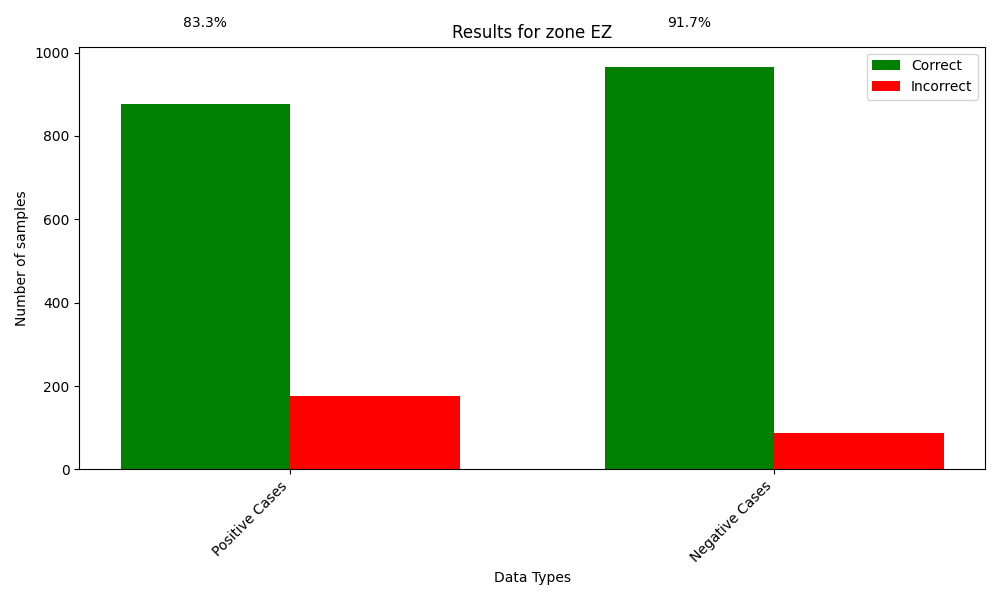
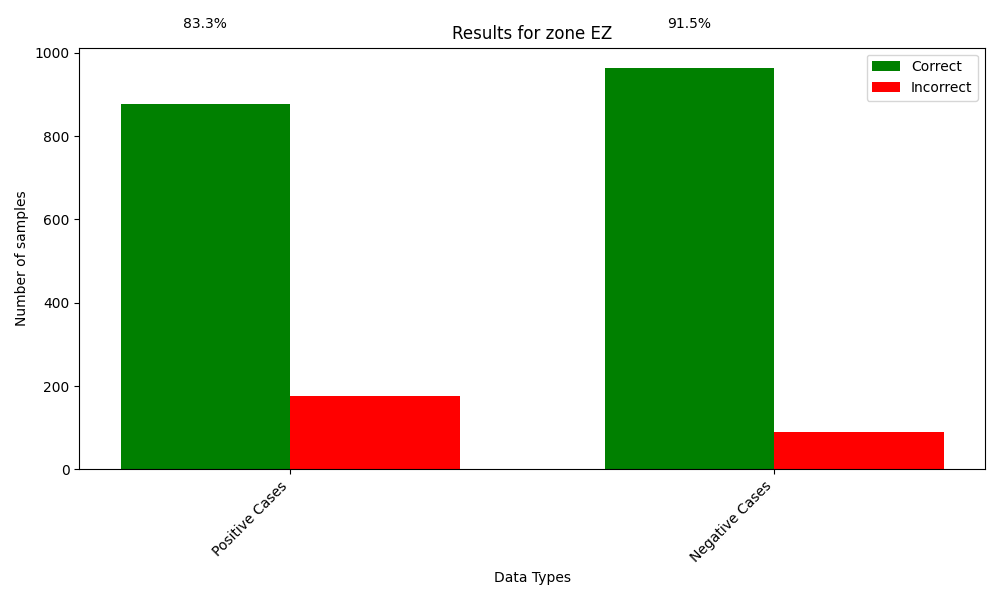
Updated API
*Added percentage and top n methods
*Updated charts results

Changed region(s): [[0.093, 0.03, 0.961, 0.18], [0.031, 0.21, 0.062, 0.24]]

diff --git a/api/GeneticZoneEvaluator.py b/api/GeneticZoneEvaluator.py
@@ -17,14 +17,17 @@ class GeneticZoneEvaluator:
                 paths = [paths]
             self.predictor[zone] = [TabularPredictor.load(path, require_py_version_match=False) for path in paths]
 
-    def _predict(self, zone, window_strings):
+    def _predict(self, zone, window_strings, method="top_n", max_predictions=10, threshold=0.5):
         """
         Predicts the labels for multiple window strings using all predictors for the specified zone.
         Instead of passing a single "sequence" column, this method transforms each window_str into
         individual columns: B1, B2, ..., B{n}, where n = len(window_str).
-        Returns a list of booleans indicating if the majority of predictors classified each window as positive.
+        Returns a list of booleans indicating if the predictions meet the criteria.
         
         :param window_strings: List of window strings to predict
+        :param method: Prediction method to use ('top_n' or 'percentage')
+        :param max_predictions: Number of top predictions to return when method is 'top_n'
+        :param threshold: Probability threshold when method is 'percentage'
         :return: List of boolean predictions
         """
         if not window_strings:
@@ -38,11 +41,18 @@ class GeneticZoneEvaluator:
         
         # Get predictions from all models
         preds = self.predictor[zone][0].predict_proba(df, as_pandas=True)
-        all_predictions = (preds["true"].rank(method="first", ascending=False) <= 10).to_list()
+        
+        if method == "top_n":
+            all_predictions = (
+                    (preds["true"].rank(method="first", ascending=False) <= max_predictions) &
+                    (preds["true"] >= threshold)
+            ).to_list()
+        else:  # percentage method
+            all_predictions = (preds["true"] >= threshold).to_list()
 
         return all_predictions
 
-    def _evaluate_ei(self, nucleotide_string):
+    def _evaluate_ei(self, nucleotide_string, method="top_n", max_predictions=10, threshold=0.5):
         """
         Evaluates the nucleotide string for EI zones.
         For each occurrence of "gt", extract a 12-character window (5 characters to the left,
@@ -64,11 +74,11 @@ class GeneticZoneEvaluator:
             start_index = pos + 1
             
         if windows:
-            predictions = self._predict("ei", windows)
+            predictions = self._predict("ei", windows, method, max_predictions, threshold)
             return [pos for pos, pred in zip(positions, predictions) if pred]
         return []
 
-    def _evaluate_ie(self, nucleotide_string):
+    def _evaluate_ie(self, nucleotide_string, method="top_n", max_predictions=10, threshold=0.5):
         """
         Evaluates the nucleotide string for IE zones.
         For each occurrence of "ag", define intron_end as (pos + 1),
@@ -91,11 +101,11 @@ class GeneticZoneEvaluator:
             start_index = pos + 1
 
         if windows:
-            predictions = self._predict("ie", windows)
+            predictions = self._predict("ie", windows, method, max_predictions, threshold)
             return [pos for pos, pred in zip(positions, predictions) if pred]
         return []
 
-    def _evaluate_ze(self, nucleotide_string):
+    def _evaluate_ze(self, nucleotide_string, method="top_n", max_predictions=10, threshold=0.5):
         """
         Evaluates the nucleotide string for ZE zones.
         A sliding window of 550 characters is moved one character at a time.
@@ -111,11 +121,11 @@ class GeneticZoneEvaluator:
             positions.append(i)
 
         if windows:
-            predictions = self._predict("ze", windows)
+            predictions = self._predict("ze", windows, method, max_predictions, threshold)
             return [pos for pos, pred in zip(positions, predictions) if pred]
         return []
 
-    def _evaluate_ez(self, nucleotide_string):
+    def _evaluate_ez(self, nucleotide_string, method="top_n", max_predictions=10, threshold=0.5):
         """
         Evaluates the nucleotide string for EZ zones.
         A sliding window of 550 characters is moved one character at a time.
@@ -131,23 +141,29 @@ class GeneticZoneEvaluator:
             positions.append(i)
 
         if windows:
-            predictions = self._predict("ez", windows)
+            predictions = self._predict("ez", windows, method, max_predictions, threshold)
             return [pos for pos, pred in zip(positions, predictions) if pred]
         return []
 
-    def evaluate(self, nucleotide_string):
+    def evaluate(self, nucleotide_string, method="top_n", max_predictions=10, threshold=0.5):
         """
         Public method to evaluate a nucleotide string for all available genetic zones.
         Returns a dictionary with keys corresponding to the zones present in the predictor dictionary,
         each mapping to a list of positions where the zone was detected.
+        
+        :param nucleotide_string: The sequence to evaluate
+        :param method: Prediction method to use ('top_n' or 'percentage')
+        :param max_predictions: Number of top predictions to return when method is 'top_n'
+        :param threshold: Probability threshold when method is 'percentage'
+        :return: Dictionary with zone predictions
         """
         results = {}
         if "ei" in self.predictor:
-            results["ei"] = self._evaluate_ei(nucleotide_string)
+            results["ei"] = self._evaluate_ei(nucleotide_string, method, max_predictions, threshold)
         if "ie" in self.predictor:
-            results["ie"] = self._evaluate_ie(nucleotide_string)
+            results["ie"] = self._evaluate_ie(nucleotide_string, method, max_predictions, threshold)
         if "ze" in self.predictor:
-            results["ze"] = self._evaluate_ze(nucleotide_string)
+            results["ze"] = self._evaluate_ze(nucleotide_string, method, max_predictions, threshold)
         if "ez" in self.predictor:
-            results["ez"] = self._evaluate_ez(nucleotide_string)
+            results["ez"] = self._evaluate_ez(nucleotide_string, method, max_predictions, threshold)
         return results

diff --git a/api/main.py b/api/main.py
@@ -75,7 +75,7 @@ async def read_root():
 @app.post("/predict",
           response_model=PredictionResponse,
           summary="Predict Genetic Zones",
-          description="Accepts a nucleotide sequence and returns predicted start positions for EI, IE, ZE, and EZ zones.",
+          description="Accepts a nucleotide sequence and returns predicted start positions for EI, IE, ZE, and EZ zones. Supports two prediction methods: 'top_n' for top N predictions or 'percentage' for predictions above a probability threshold.",
           status_code=status.HTTP_200_OK)
 async def predict_zones(request: PredictionRequest):
     """
@@ -93,7 +93,7 @@ async def predict_zones(request: PredictionRequest):
             detail="Models are not loaded or failed to load. Please check server logs."
         )
 
-    logger.info(f"Received prediction request for sequence of length {len(request.sequence)}.")
+    logger.info(f"Received prediction request for sequence of length {len(request.sequence)} with method {request.method}.")
 
     try:
         # Get the current asyncio event loop
@@ -103,11 +103,14 @@ async def predict_zones(request: PredictionRequest):
         results = await loop.run_in_executor(
             None,  # Use default executor
             evaluator.evaluate,
-            request.sequence.lower() # Pass the sequence from the validated request
+            request.sequence.lower(),  # Pass the sequence from the validated request
+            request.method,  # Pass the prediction method
+            request.max_number_of_predictions,  # Pass max predictions for top_n method
+            request.threshold  # Pass threshold for percentage method
         )
         logger.info("Evaluation complete.")
 
-        # Ensure all expected keys are present in the results, even if empty (GeneticZoneEvaluator should already do this if models are loaded)
+        # Ensure all expected keys are present in the results, even if empty
         final_results = {
             "ei": results.get("ei", []),
             "ie": results.get("ie", []),
@@ -115,7 +118,7 @@ async def predict_zones(request: PredictionRequest):
             "ez": results.get("ez", []),
         }
 
-        logger.info(f"EI types found: {type(final_results['ei'])}, ")
+        logger.info(f"Prediction completed with method {request.method}")
 
         return final_results
 

diff --git a/api/models.py b/api/models.py
@@ -1,5 +1,5 @@
 from pydantic import BaseModel, Field, validator
-from typing import List, Dict
+from typing import List, Dict, Literal
 import re
 
 from .config import MIN_SEQUENCE_LENGTH
@@ -10,6 +10,22 @@ class PredictionRequest(BaseModel):
         min_length=MIN_SEQUENCE_LENGTH,
         description=f"Nucleotide sequence (ATGC only). Minimum length {MIN_SEQUENCE_LENGTH} required for full evaluation including ze/ez zones."
     )
+    method: Literal["top_n", "percentage"] = Field(
+        default="top_n",
+        description="Prediction method to use: 'top_n' for top N predictions or 'percentage' for predictions above threshold"
+    )
+    max_number_of_predictions: int = Field(
+        default=10,
+        ge=1,
+        le=10000,
+        description="Number of top predictions to return for each zone when method is 'top_n'"
+    )
+    threshold: float = Field(
+        default=0.5,
+        ge=0.0,
+        le=1.0,
+        description="Probability threshold for predictions when method is 'percentage'"
+    )
 
     @validator("sequence")
     def sequence_must_contain_only_atgc(cls, v: str) -> str:
@@ -18,6 +34,20 @@ class PredictionRequest(BaseModel):
         v = v.lower()  # keep it lower‑case
         if not re.fullmatch(r"[atgc]+", v):
             raise ValueError("Sequence must contain only A, T, G, C characters")
+        return v
+
+    @validator("max_number_of_predictions")
+    def validate_max_predictions(cls, v, values):
+        if "method" in values and values["method"] == "top_n":
+            if v < 1:
+                raise ValueError("max_number_of_predictions must be at least 1 when using top_n method")
+        return v
+
+    @validator("threshold")
+    def validate_threshold(cls, v, values):
+        if "method" in values and values["method"] == "percentage":
+            if v < 0 or v > 1:
+                raise ValueError("threshold must be between 0 and 1 when using percentage method")
         return v
 
 class PredictionResponse(BaseModel):

diff --git a/training/evaluate_genomic_data.py b/training/evaluate_genomic_data.py
@@ -358,11 +358,11 @@ def print_results(results, output_dir="results"):
 if __name__ == "__main__":
     
     model_paths = {
-        # "ei": "../models/ei/combined",
-        # "ie": "../models/ie/combined",
-        # "ez": "../models/ez/combined",
-        # "ze": "../models/ze/combined",
-        # "ze-ez": "../models/ze-ez/ZE-EZ"
+        "ei": "../models/ei/combined",
+        "ie": "../models/ie/combined",
+        "ez": "../models/ez/combined",
+        "ze": "../models/ze/combined",
+        "ze-ez": "../models/ze-ez/ZE-EZ",
         'ei-ie': "../models/ei-ie/EI-IE",
         'ie-ei': "../models/ie-ei/IE-EI",
     }
